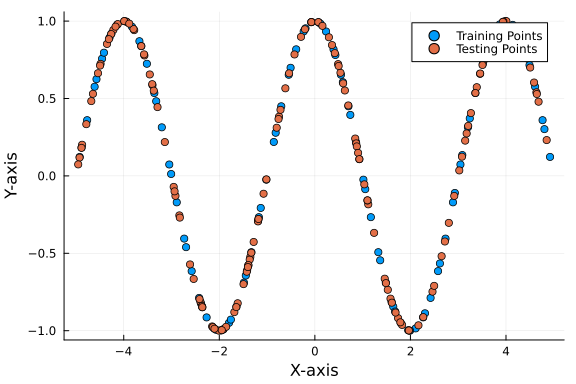
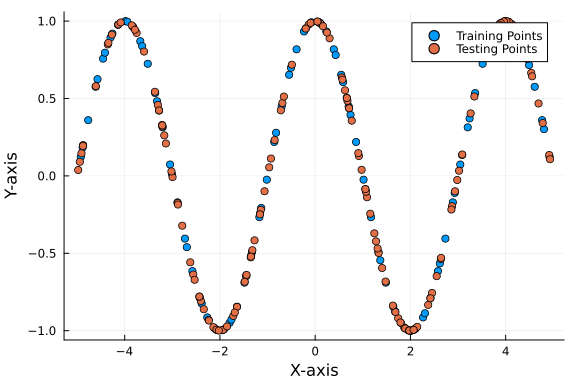
Publish refreshed Surrogates benchmarks
Source run: https://github.com/SciML/SciMLBenchmarks.jl/actions/runs/33074510333

Claude-Session: https://chatgpt.com/codex/tasks/01a03a17-ad6f-7131-82fc-d0fd57ea6512

diff --git a/markdown/Surrogates/tensor_product.md b/markdown/Surrogates/tensor_product.md
@@ -34,7 +34,7 @@ np = pyimport("numpy")
 ```
 Python: <module 'numpy' from '/home/crackauc/github-runners/amdci3-1/_work/
 SciMLBenchmarks.jl/SciMLBenchmarks.jl/benchmarks/Surrogates/.CondaPkg/.pixi
-/envs/default/lib/python3.13/site-packages/numpy/__init__.py'>
+/envs/default/lib/python3.12/site-packages/numpy/__init__.py'>
 ```
 
 
@@ -86,26 +86,26 @@ y_test = tensor_product_function.(x_test)  # Calculate corresponding true functi
 
 ```
 150-element Vector{Float64}:
-  0.3228577890898678
-  0.6031711762069693
-  0.035270457075895566
- -0.8131133588527643
- -0.6993633134415057
- -0.18380714835614795
-  0.9414233588125386
- -0.8487428122729299
-  0.6552633469010913
- -0.9726341201076522
+  0.09092582161544815
+ -0.3217996438885988
+ -0.9995012155867877
+  0.13811514937452926
+ -0.41634721354162463
+ -0.2425199153142568
+  0.5794553019009477
+ -0.1381155919217329
+ -0.8079805893409991
+ -0.9892407278350153
   ⋮
- -0.15781173540735724
-  0.9471544554273277
-  0.14867387736719467
- -0.6928115507517415
- -0.2695867957284554
-  0.10823286947418409
-  0.9690927180786124
- -0.5890654429741988
- -0.7959070533355348
+  0.6432030160556936
+  0.6220964920770949
+  0.5127583307909311
+ -0.9725057338643873
+ -0.08513616915129316
+ -0.5216815794723255
+ -0.994526401806493
+  0.9125355939879478
+  0.8764463168011872
 ```
 
 
@@ -144,7 +144,7 @@ loba_surrogate = LobachevskySurrogate(x_train, y_train, lb, ub, alpha = 2.0, n =
 
 ```
 (::Surrogates.LobachevskySurrogate{Vector{Float64}, Vector{Float64}, Float6
-4, Int64, Float64, Float64, Vector{Float64}, Bool}) (generic function with 
+4, Int64, Float64, Float64, Vector{Float64}, Bool}) (generic function with
 2 methods)
 ```
 
@@ -178,26 +178,26 @@ loba_test_pred = loba_surrogate.(x_test)
 
 ```
 150-element Vector{Float64}:
-  0.322855557124474
-  0.6031835263993189
-  0.035280765786769926
- -0.8131170698055126
- -0.6993627056097349
- -0.18379351016534773
-  0.9414399782925562
- -0.8487255747561946
-  0.6551371650634015
- -0.9726530680133134
+  0.09107530076370463
+ -0.3218807212060839
+ -0.9995235547767284
+  0.13811596115581054
+ -0.41636667514371517
+ -0.24251872556737109
+  0.5794551112211064
+ -0.1381011969449084
+ -0.8079847490596936
+ -0.989252145430689
   ⋮
- -0.15779566020700278
-  0.9471523221322219
-  0.1487210902054039
- -0.6928089029322984
- -0.26967568438980827
-  0.10829465830972282
-  0.9690798469782982
- -0.5890699448059937
- -0.795909606757748
+  0.6432204405833598
+  0.6220984945293266
+  0.5127697147795967
+ -0.9725006092513269
+ -0.08513634563359168
+ -0.5216836786728223
+ -0.9945548388322417
+  0.9125337844727959
+  0.8764448218186158
 ```
 
 
@@ -241,7 +241,7 @@ mse_loba_test = calculate_mse(loba_test_pred, y_test)
 ```
 
 ```
-1.572106944843983e-9
+5.06333030881676e-9
 ```
 
 
@@ -262,12 +262,12 @@ pretty_table(hcat(getindex.(mses, 3), getindex.(mses, 2), getindex.(mses, 1)), c
 ┌────────────────────┬──────────────┬─────────────┐
 │              Model │ Training MSE │    Test MSE │
 ├────────────────────┼──────────────┼─────────────┤
-│      Kriging (SMT) │  3.52227e-18 │ 4.02911e-18 │
-│ Radial Basis (SMT) │  2.34051e-14 │ 1.31138e-13 │
-│        Lobachevsky │   3.7375e-19 │  1.57211e-9 │
-│            Kriging │   1.16824e-5 │  1.19671e-5 │
-│       Radial Basis │  1.74579e-30 │  2.39563e-5 │
-│            XGBoost │   0.00176894 │  0.00782274 │
+│      Kriging (SMT) │  3.51665e-18 │ 3.96688e-18 │
+│ Radial Basis (SMT) │  2.34051e-14 │ 4.47952e-13 │
+│        Lobachevsky │   3.7375e-19 │  5.06333e-9 │
+│            Kriging │   1.16824e-5 │   1.2495e-5 │
+│       Radial Basis │  1.74579e-30 │  6.46028e-5 │
+│            XGBoost │   0.00176894 │  0.00737725 │
 └────────────────────┴──────────────┴─────────────┘
 ```
 
@@ -311,7 +311,7 @@ time_loba = @belapsed loba_surrogate.(x_test)
 ```
 
 ```
-0.001479671
+0.001553301
 ```
 
 
@@ -330,13 +330,13 @@ pretty_table(hcat(first.(sorted_times), last.(sorted_times)), column_labels=["Mo
 ┌────────────────────┬─────────────┐
 │              Model │     Time(s) │
 ├────────────────────┼─────────────┤
-│  Original Function │    1.597e-6 │
-│            Kriging │ 0.000342458 │
-│ Radial Basis (SMT) │ 0.000414588 │
-│      Kriging (SMT) │ 0.000654746 │
-│        Lobachevsky │  0.00147967 │
-│       Radial Basis │  0.00210461 │
-│            XGBoost │   0.0630811 │
+│  Original Function │     1.55e-6 │
+│            Kriging │ 0.000348208 │
+│ Radial Basis (SMT) │ 0.000411028 │
+│      Kriging (SMT) │ 0.000701756 │
+│        Lobachevsky │   0.0015533 │
+│       Radial Basis │  0.00158163 │
+│            XGBoost │   0.0582575 │
 └────────────────────┴─────────────┘
 ```
 
